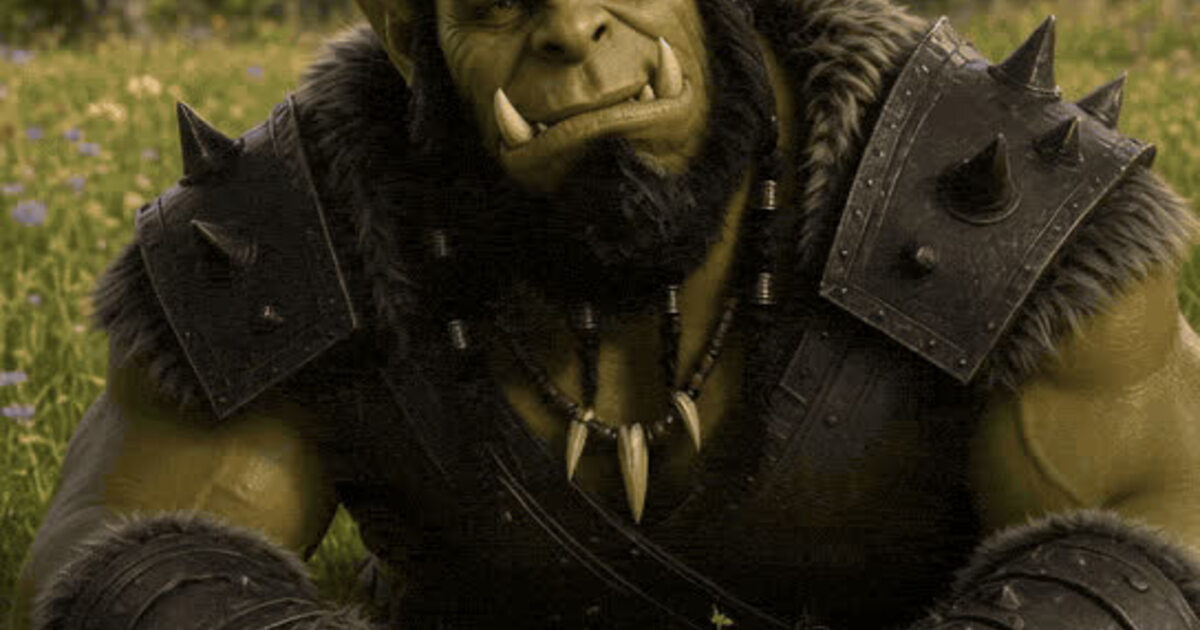
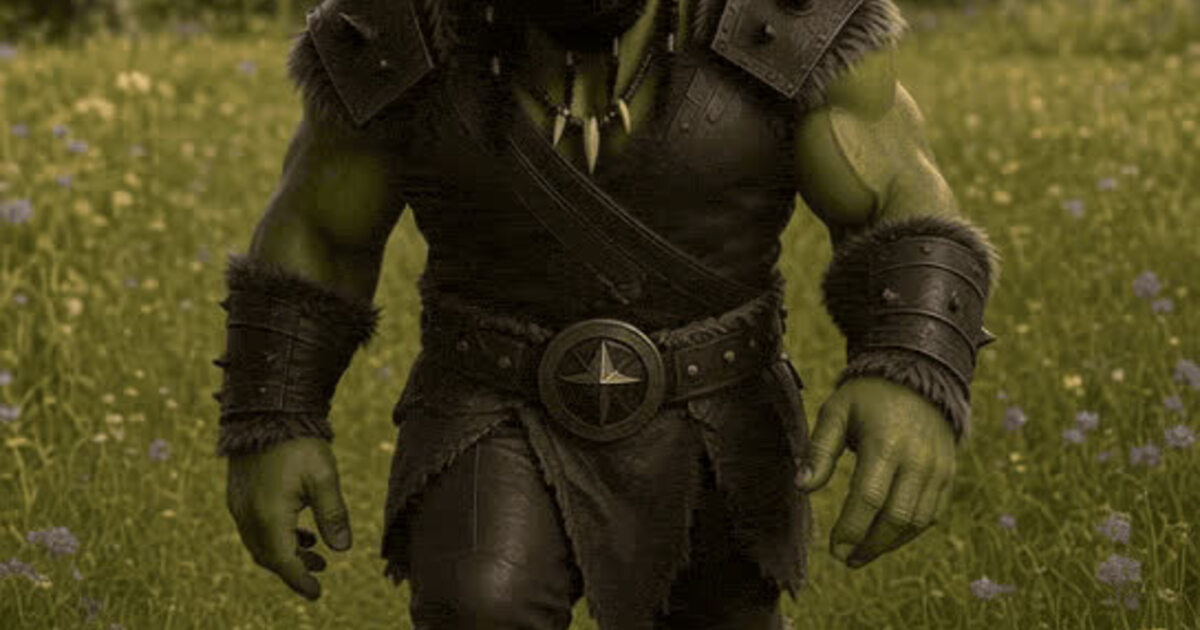
Reshoot Touch grass as a meadow walk, then a crouch.

diff --git a/scripts/imagine-video.ts b/scripts/imagine-video.ts
@@ -100,7 +100,7 @@ const PROMPTS: Record<string, string> = {
   toldyou:
     "The orc smirks I-told-you-so, a smug little nod and knowing glance. Locked camera.",
   "touch-grass":
-    "The orc rests in the meadow, fingers shifting in the grass, a small outdoor blink, breeze moving the grass. Locked camera.",
+    "The orc walks a few relaxed steps through the meadow toward the camera, enjoying the day. Then he crouches and touches the grass with one hand, a content smile. Not lying down. Locked camera.",
   victory:
     "The orc celebrates the win with a short victorious motion and a proud grin. Locked camera.",
   wave:
